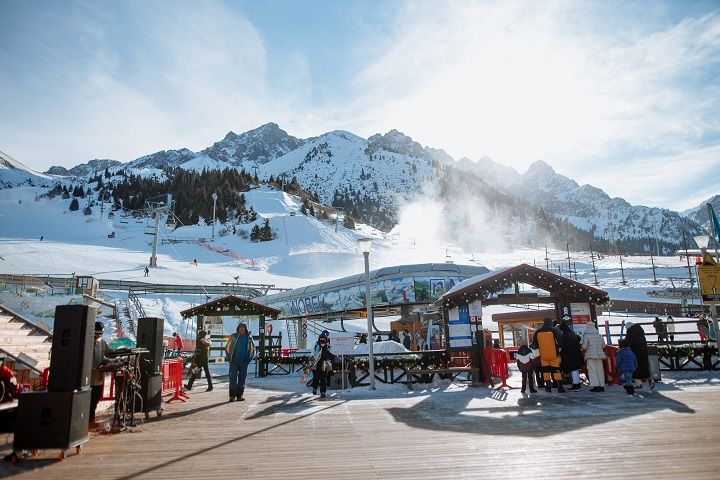
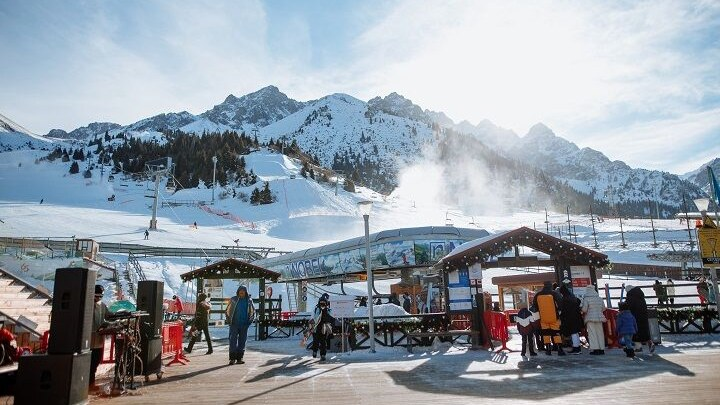
fix(video): убрать дёрганье страницы и растянуть видео на всю ячейку
Размеры <video> целиком зависели от постера: ширину задавало его
разрешение, а высоту — его пропорции до загрузки потока и размеры видео
после. Постеры были в трёх разных пропорциях, ни одна из которых не
совпадала с 16:9 потоков:

  Ледник Богдановича  1280x720 поток / 720x540 постер (4:3)
  Средняя станция     1280x720 поток / 1280x720 постер (16:9)
  Подъемник           1280x720 поток / 720x480 постер (3:2)
  Бугель              поток недоступен / 720x480 постер (3:2)

Отсюда два симптома: страница дёргалась при старте потока, а видео не
занимало ячейку целиком — в гриде 835px постер шириной 720px давал видео
720px, и только единственный постер 1280px растягивался на всю ячейку.

- в HlsVideo добавлены aspect-video, w-full и object-cover, поэтому
  вёрстка больше не зависит ни от разрешения постера, ни от момента
  загрузки потока. Раньше aspect-video стоял только в Index.vue, а в
  VideoWall.vue не было вообще ничего; дублирующий класс из Index.vue убран
- постеры приведены к 16:9 кадрированием по центру. Содержимое сохранено:
  это постановочные зимние фото курорта, а не кадры с камер, поэтому
  заменять их свежими кадрами было бы продуктовым решением, а не багфиксом

Проверено в браузере: на видеостене все четыре плитки заполняют ячейки
835x470 вместо разнобоя 720x405 / 835x470, CLS = 0, ни одного события
layout-shift. SSR-рендером проверено, что fallthrough-атрибуты
poster/muted/controls не теряются.

diff --git a/src/components/HlsVideo.vue b/src/components/HlsVideo.vue
@@ -1,5 +1,17 @@
 <template>
-  <video :src="src" :poster="poster" ref="videoItem"></video>
+  <!--
+    Размеры задаются здесь, а не в местах использования. Без w-full ширину
+    <video> определяет разрешение постера (720px постер -> видео 720px в
+    ячейке 835px), а без aspect-video высота до загрузки потока берётся из
+    постера и меняется на размеры видео — отсюда прыжки. С этой парой
+    вёрстка не зависит ни от разрешения постера, ни от момента загрузки.
+  -->
+  <video
+    class="aspect-video w-full object-cover"
+    :src="src"
+    :poster="poster"
+    ref="videoItem"
+  ></video>
 </template>
 
 <script setup>

diff --git a/src/Index.vue b/src/Index.vue
@@ -85,7 +85,6 @@ function clearCacheAndReload() {
         <HlsVideo
           :src="video.src"
           :poster="video.poster"
-          class="aspect-video"
           muted
           controls
           allowfullscreen
